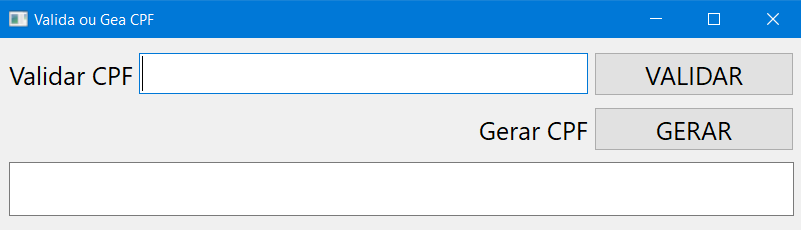
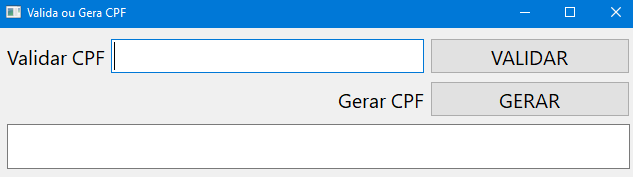
correcao de typo no app

diff --git a/design2.py b/design2.py
@@ -76,7 +76,7 @@ class Ui_MainWindow(object):
 
     def retranslateUi(self, MainWindow):
         _translate = QtCore.QCoreApplication.translate
-        MainWindow.setWindowTitle(_translate("MainWindow", "Valida ou Gea CPF"))
+        MainWindow.setWindowTitle(_translate("MainWindow", "Valida ou Gera CPF"))
         self.label_4.setText(_translate("MainWindow", "Validar CPF"))
         self.btnValidaCPF.setText(_translate("MainWindow", "VALIDAR"))
         self.label.setText(_translate("MainWindow", "Gerar CPF"))
